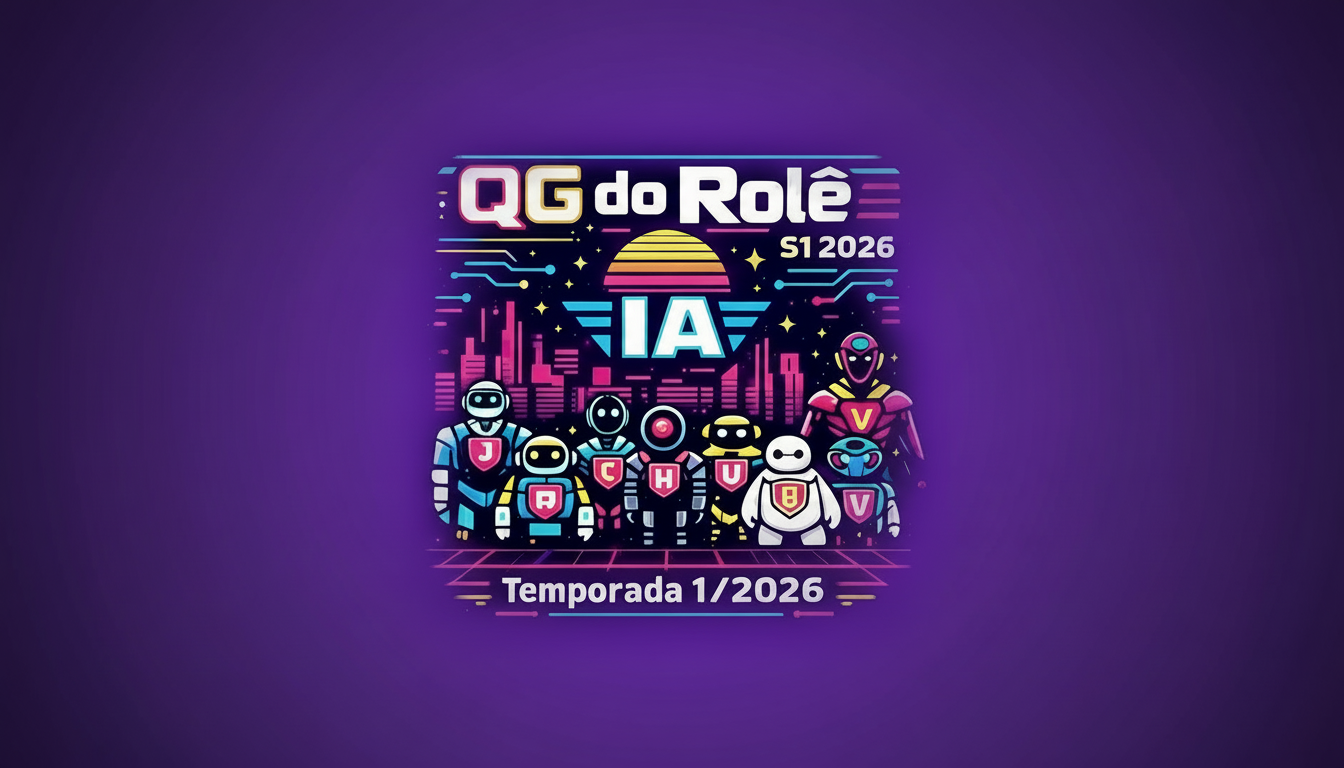
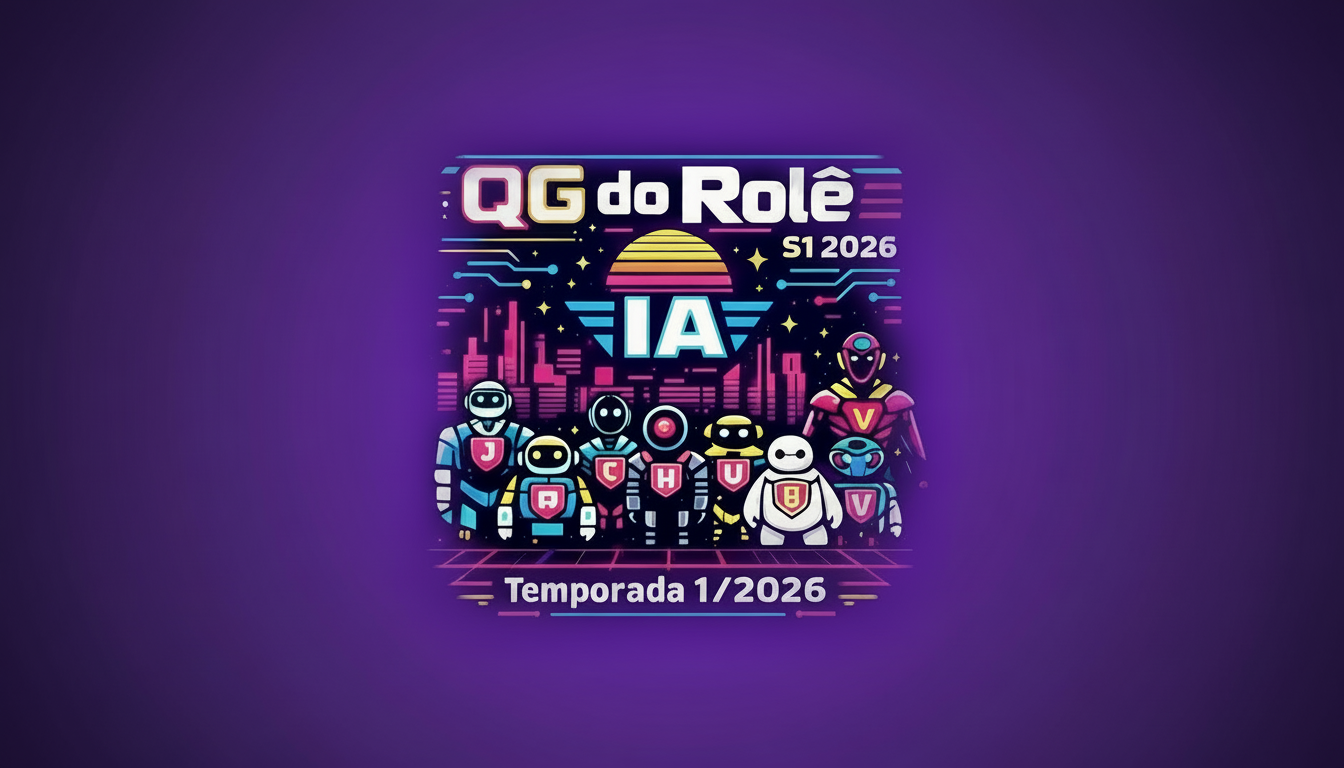
Changes

Changed region(s): [[0.3125, 0.2188, 0.6875, 0.75], [0.375, 0.7188, 0.625, 0.8125], [0.4375, 0.3125, 0.4688, 0.3438]]

diff --git a/src/components/slides/HeroSlide.tsx b/src/components/slides/HeroSlide.tsx
@@ -1,5 +1,5 @@
 import { cn } from "@/lib/utils";
-import qgMainImage from "@/assets/qg-role-main-purple.png";
+import qgMainImage from "@/assets/qg-role-main.png";
 
 interface HeroSlideProps {
   isActive: boolean;
@@ -11,19 +11,18 @@ export const HeroSlide = ({ isActive }: HeroSlideProps) => {
       className={cn(
         "absolute inset-0 flex items-center justify-center overflow-hidden",
         "transition-opacity duration-1000 ease-in-out",
-        "bg-hero",
+        "bg-background", // Pure black background matching the image
         isActive ? "opacity-100 z-10" : "opacity-0 z-0"
       )}
     >
-      {/* Image fills entire screen */}
+      {/* Image centered with uniform black background */}
       <img 
         src={qgMainImage} 
         alt="QG do Rolê - Temporada 1/2026" 
         fetchPriority="high"
         decoding="async"
         className={cn(
-          // Fill the screen and hide any mismatch between image/background purples
-          "w-full h-full object-cover scale-[1.02]",
+          "max-w-full max-h-full object-contain",
           isActive && "animate-float"
         )}
       />
